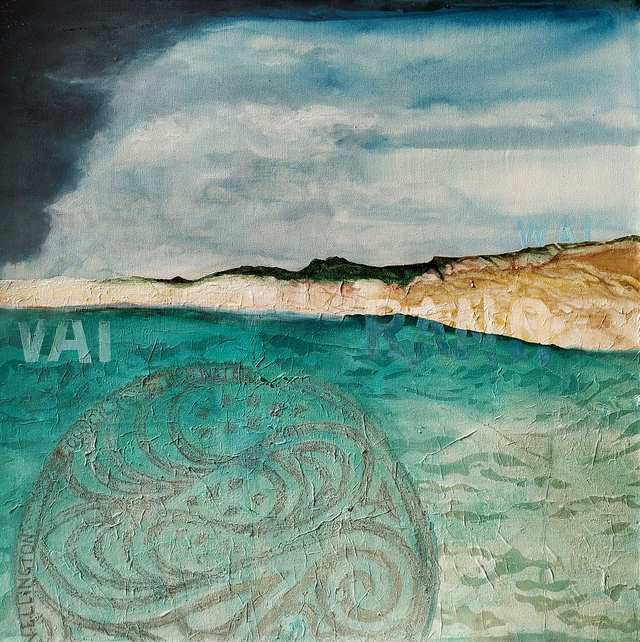
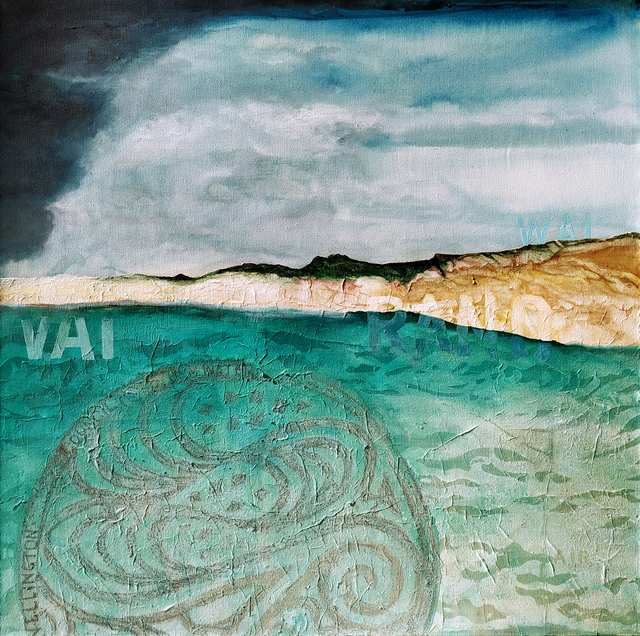
image colours fixed + new exhibiton announcement

diff --git a/_site/index.html b/_site/index.html
@@ -69,14 +69,14 @@
 <link rel="canonical" href="http://localhost:4000/" />
 <meta property="og:url" content="http://localhost:4000/" />
 <meta property="og:site_name" content="Davina Stephens" />
-<meta property="og:image" content="http://localhost:4000/assets/p/paintings/davina-stephens-2019005.jpg" />
+<meta property="og:image" content="http://localhost:4000/assets/p/paintings/davina-stephens-2017028.jpg" />
 <meta name="twitter:card" content="summary_large_image" />
-<meta property="twitter:image" content="http://localhost:4000/assets/p/paintings/davina-stephens-2019005.jpg" />
+<meta property="twitter:image" content="http://localhost:4000/assets/p/paintings/davina-stephens-2017028.jpg" />
 <meta property="twitter:title" content="Paintings" />
 <meta name="twitter:site" content="@rokmatwit" />
 <meta name="twitter:creator" content="@rokma" />
 <script type="application/ld+json">
-{"headline":"Paintings","publisher":{"@type":"Organization","logo":{"@type":"ImageObject","url":"http://localhost:4000/assets/favicons/apple-touch-icon-152x152.png"},"name":"rokma"},"description":"Davina Stephens’ art is permeated by locally significant elements and atmospheres while evocating a global sensibility. Her celebration of the freedom of living, through story telling, the tropical travels scenes and her use of colour, conveys, using different materials, media and techniques, a unique recognisable character which took her artworks to international recognition.","author":{"@type":"Person","name":"rokma"},"name":"Davina Stephens","@type":"WebSite","url":"http://localhost:4000/","image":"http://localhost:4000/assets/p/paintings/davina-stephens-2019005.jpg","@context":"https://schema.org"}</script>
+{"headline":"Paintings","publisher":{"@type":"Organization","logo":{"@type":"ImageObject","url":"http://localhost:4000/assets/favicons/apple-touch-icon-152x152.png"},"name":"rokma"},"description":"Davina Stephens’ art is permeated by locally significant elements and atmospheres while evocating a global sensibility. Her celebration of the freedom of living, through story telling, the tropical travels scenes and her use of colour, conveys, using different materials, media and techniques, a unique recognisable character which took her artworks to international recognition.","author":{"@type":"Person","name":"rokma"},"name":"Davina Stephens","@type":"WebSite","url":"http://localhost:4000/","image":"http://localhost:4000/assets/p/paintings/davina-stephens-2017028.jpg","@context":"https://schema.org"}</script>
 <!-- End Jekyll SEO tag -->
 
 
@@ -279,16 +279,21 @@
   
   
 
-  <img class="hero_image " src="/assets/p/paintings/davina-stephens-2019005-640.jpg"
-       srcset="/assets/p/paintings/davina-stephens-2019005-640.jpg 640w,
-               /assets/p/paintings/davina-stephens-2019005-880.jpg 880w,
-               /assets/p/paintings/davina-stephens-2019005-1024.jpg 1024w,
-               /assets/p/paintings/davina-stephens-2019005-1920.jpg 1920w"
+  <img class="hero_image " src="/assets/p/paintings/davina-stephens-2017028-640.jpg"
+       srcset="/assets/p/paintings/davina-stephens-2017028-640.jpg 640w,
+               /assets/p/paintings/davina-stephens-2017028-880.jpg 880w,
+               /assets/p/paintings/davina-stephens-2017028-1024.jpg 1024w,
+               /assets/p/paintings/davina-stephens-2017028-1920.jpg 1920w"
        sizes="100vw" alt="index.md - " />
 
   <div class="hero_caption">
     <h1 class=""></h1>
   </div>
+
+    
+      <h4 class="exhibition_block center">
+  <div class="exhibition_text">Now exhibiting at <strong><a class="clean_link" href="http://www.artbali.co.id/">Art•Bali 2019</a></strong></span>
+</h4>
 
     
 
@@ -439,29 +444,6 @@
             
           
             
-              
-              <div class="painting_link_box">
-
-                <a class="painting_link" href="/2019004">
-
-                  
-
-                  
-
-                  <img  class="painting_link_image" loading="lazy" src="/assets/p/paintings/davina-stephens-2019004-640.jpg"
-                       srcset="/assets/p/paintings/davina-stephens-2019004-640.jpg 640w,
-                               /assets/p/paintings/davina-stephens-2019004-880.jpg 880w,
-                               /assets/p/paintings/davina-stephens-2019004-1024.jpg 1024w,
-                               /assets/p/paintings/davina-stephens-2019004-1920.jpg 1920w"
-                       sizes="100vw" alt="index.md - " />
-
-                  <div class="painting_title"><strong>Post Beringin Tree</strong>, 100 x 100 cm</div>
-
-                </a>
-
-              </div>
-              
-            
           
             
               
@@ -528,28 +510,7 @@
             
           
             
-              
-              <div class="painting_link_box">
-
-                <a class="painting_link" href="/2018003">
-
-                  
-
-                  
-
-                  <img  class="painting_link_image" loading="lazy" src="/assets/p/paintings/davina-stephens-2018003-640.jpg"
-                       srcset="/assets/p/paintings/davina-stephens-2018003-640.jpg 640w,
-                               /assets/p/paintings/davina-stephens-2018003-880.jpg 880w,
-                               /assets/p/paintings/davina-stephens-2018003-1024.jpg 1024w,
-                               /assets/p/paintings/davina-stephens-2018003-1920.jpg 1920w"
-                       sizes="100vw" alt="index.md - " />
-
-                  <div class="painting_title"><strong>Goa Laut</strong>, 169 x 69 cm</div>
-
-                </a>
-
-              </div>
-              
+          
             
           
             
@@ -586,20 +547,20 @@
               
               <div class="painting_link_box">
 
-                <a class="painting_link" href="/2015014">
+                <a class="painting_link" href="/2015011">
 
                   
 
                   
 
-                  <img  class="painting_link_image" loading="lazy" src="/assets/p/paintings/davina-stephens-2015014-640.jpg"
-                       srcset="/assets/p/paintings/davina-stephens-2015014-640.jpg 640w,
-                               /assets/p/paintings/davina-stephens-2015014-880.jpg 880w,
-                               /assets/p/paintings/davina-stephens-2015014-1024.jpg 1024w,
-                               /assets/p/paintings/davina-stephens-2015014-1920.jpg 1920w"
+                  <img  class="painting_link_image" loading="lazy" src="/assets/p/paintings/davina-stephens-2015011-640.jpg"
+                       srcset="/assets/p/paintings/davina-stephens-2015011-640.jpg 640w,
+                               /assets/p/paintings/davina-stephens-2015011-880.jpg 880w,
+                               /assets/p/paintings/davina-stephens-2015011-1024.jpg 1024w,
+                               /assets/p/paintings/davina-stephens-2015011-1920.jpg 1920w"
                        sizes="100vw" alt="index.md - " />
 
-                  <div class="painting_title"><strong>What grows on a bukit wall 1</strong>, 90 x 110 cm</div>
+                  <div class="painting_title"><strong>Sumba 2</strong>, 225 x 150 cm</div>
 
                 </a>
 
@@ -633,31 +594,6 @@
           
             
           
-            
-          
-            
-              
-              <div class="painting_link_box">
-
-                <a class="painting_link" href="/2012004">
-
-                  
-
-                  
-
-                  <img  class="painting_link_image" loading="lazy" src="/assets/p/paintings/davina-stephens-2012004-640.jpg"
-                       srcset="/assets/p/paintings/davina-stephens-2012004-640.jpg 640w,
-                               /assets/p/paintings/davina-stephens-2012004-880.jpg 880w,
-                               /assets/p/paintings/davina-stephens-2012004-1024.jpg 1024w,
-                               /assets/p/paintings/davina-stephens-2012004-1920.jpg 1920w"
-                       sizes="100vw" alt="index.md - " />
-
-                  <div class="painting_title"><strong>Knowing 2</strong>, 120 x 90 cm</div>
-
-                </a>
-
-              </div>
-              
             
           
             
@@ -858,11 +794,11 @@
         
 
         <div class="painting_thumb">
-          <img class="painting_thumb_image" src="/assets/p/paintings/davina-stephens-2016019-640.jpg"
-               srcset="/assets/p/paintings/davina-stephens-2016019-640.jpg 640w,
-                       /assets/p/paintings/davina-stephens-2016019-880.jpg 880w,
-                       /assets/p/paintings/davina-stephens-2016019-1024.jpg 1024w,
-                       /assets/p/paintings/davina-stephens-2016019-1920.jpg 1920w"
+          <img class="painting_thumb_image" src="/assets/p/paintings/davina-stephens-2015010-640.jpg"
+               srcset="/assets/p/paintings/davina-stephens-2015010-640.jpg 640w,
+                       /assets/p/paintings/davina-stephens-2015010-880.jpg 880w,
+                       /assets/p/paintings/davina-stephens-2015010-1024.jpg 1024w,
+                       /assets/p/paintings/davina-stephens-2015010-1920.jpg 1920w"
                sizes="50vw" alt="Living Houses, ">
         </div>
 

diff --git a/_site/living-houses/index.html b/_site/living-houses/index.html
@@ -69,14 +69,14 @@
 <link rel="canonical" href="http://localhost:4000/living-houses/" />
 <meta property="og:url" content="http://localhost:4000/living-houses/" />
 <meta property="og:site_name" content="Davina Stephens" />
-<meta property="og:image" content="http://localhost:4000/assets/p/paintings/davina-stephens-2016019.jpg" />
+<meta property="og:image" content="http://localhost:4000/assets/p/paintings/davina-stephens-2015010.jpg" />
 <meta name="twitter:card" content="summary_large_image" />
-<meta property="twitter:image" content="http://localhost:4000/assets/p/paintings/davina-stephens-2016019.jpg" />
+<meta property="twitter:image" content="http://localhost:4000/assets/p/paintings/davina-stephens-2015010.jpg" />
 <meta property="twitter:title" content="Living Houses" />
 <meta name="twitter:site" content="@rokmatwit" />
 <meta name="twitter:creator" content="@rokma" />
 <script type="application/ld+json">
-{"headline":"Living Houses","publisher":{"@type":"Organization","logo":{"@type":"ImageObject","url":"http://localhost:4000/assets/favicons/apple-touch-icon-152x152.png"},"name":"rokma"},"description":"Davina Stephens’ art is permeated by locally significant elements and atmospheres while evocating a global sensibility. Her celebration of the freedom of living, through story telling, the tropical travels scenes and her use of colour, conveys, using different materials, media and techniques, a unique recognisable character which took her artworks to international recognition.","author":{"@type":"Person","name":"rokma"},"@type":"WebPage","url":"http://localhost:4000/living-houses/","image":"http://localhost:4000/assets/p/paintings/davina-stephens-2016019.jpg","@context":"https://schema.org"}</script>
+{"headline":"Living Houses","publisher":{"@type":"Organization","logo":{"@type":"ImageObject","url":"http://localhost:4000/assets/favicons/apple-touch-icon-152x152.png"},"name":"rokma"},"description":"Davina Stephens’ art is permeated by locally significant elements and atmospheres while evocating a global sensibility. Her celebration of the freedom of living, through story telling, the tropical travels scenes and her use of colour, conveys, using different materials, media and techniques, a unique recognisable character which took her artworks to international recognition.","author":{"@type":"Person","name":"rokma"},"@type":"WebPage","url":"http://localhost:4000/living-houses/","image":"http://localhost:4000/assets/p/paintings/davina-stephens-2015010.jpg","@context":"https://schema.org"}</script>
 <!-- End Jekyll SEO tag -->
 
 

diff --git a/_includes/exhibition.html b/_includes/exhibition.html
@@ -1,3 +1,3 @@
 <h4 class="exhibition_block center">
-  <div class="exhibition_text">Now exhibiting at <strong><a class="clean_link" href="https://g.page/amankila?share">Amankila, Bali</a></strong></span>
+  <div class="exhibition_text">Now exhibiting at <strong><a class="clean_link" href="http://www.artbali.co.id/">Art•Bali 2019</a></strong></span>
 </h4>

diff --git a/_posts/2019-01-01-2018003.md b/_posts/2019-01-01-2018003.md
@@ -5,7 +5,7 @@ number: "003"
 title: Goa Laut
 dimensions: 169 x 69
 medium: acrylic marine-charts collage charcoal woodblock on canvas
-show_in_home: true #true or empty
+show_in_home:  #true or empty
 publish: # notyet or blank
 image: /assets/p/paintings/davina-stephens-2018003.jpg
 tags:  acrylic canvas collage charcoal marine-charts ocean rice-paper woodblock  

diff --git a/_posts/2019-01-01-2015014.md b/_posts/2019-01-01-2015014.md
@@ -5,7 +5,7 @@ number: "014"
 title: What grows on a bukit wall 1
 dimensions: 90 x 110
 medium: acrylic charcoal and collage on canvas
-show_in_home: true #true or empty
+show_in_home: #true or empty
 publish: # notyet or blank
 image: /assets/p/paintings/davina-stephens-2015014.jpg
 tags: acrylic charcoal collage canvas flora rice-paper

diff --git a/_posts/2019-01-01-2012004.md b/_posts/2019-01-01-2012004.md
@@ -5,7 +5,7 @@ number: "004"
 title: Knowing 2
 dimensions: 120 x 90
 medium: acrylic charcoal linoleum cut collage on canvas
-show_in_home: true #true or empty
+show_in_home:  #true or empty
 publish: # notyet or blank
 image: /assets/p/paintings/davina-stephens-2012004.jpg
 tags: acrylic charcoal linoleum-cut collage canvas sold

diff --git a/_posts/2019-01-01-2019004.md b/_posts/2019-01-01-2019004.md
@@ -5,7 +5,7 @@ number: "004"
 title: Post Beringin Tree
 dimensions: 100 x 100
 medium: mixed media collage on canvas
-show_in_home: true #true or empty
+show_in_home: #true or empty
 publish: # notyet or blank
 image: /assets/p/paintings/davina-stephens-2019004.jpg
 tags: acrylic canvas collage mixed-media fabric woodblock

diff --git a/_series/living-houses.md b/_series/living-houses.md
@@ -4,6 +4,6 @@ title: Living Houses
 subtitle: Reflection of cosmological ideas, rituals enacted within the houses, vehicles of history and memory.
 description:
 publish: # notyet or blank
-image:  /assets/p/paintings/davina-stephens-2016019.jpg
+image:  /assets/p/paintings/davina-stephens-2015010.jpg
 year: 2014-2018
 ---

diff --git a/index.md b/index.md
@@ -2,9 +2,9 @@
 layout: home
 title: Paintings
 description: #
-image: /assets/p/paintings/davina-stephens-2019005.jpg
+image: /assets/p/paintings/davina-stephens-2017028.jpg
 caption:
-exhibition: #true or empty
+exhibition: true #true or empty
 image_align_top:  #true or empty
 image_align_bottom:  #true or empty
 ---

diff --git a/_posts/2019-01-01-2015011.md b/_posts/2019-01-01-2015011.md
@@ -5,7 +5,7 @@ number: "011"
 title: Sumba 2
 dimensions: 225 x 150
 medium: mixed media on canvas
-show_in_home: #true or empty
+show_in_home: true #true or empty
 publish: # notyet or blank
 image: /assets/p/paintings/davina-stephens-2015011.jpg
 tags: mixed-media canvas rice-paper sold
